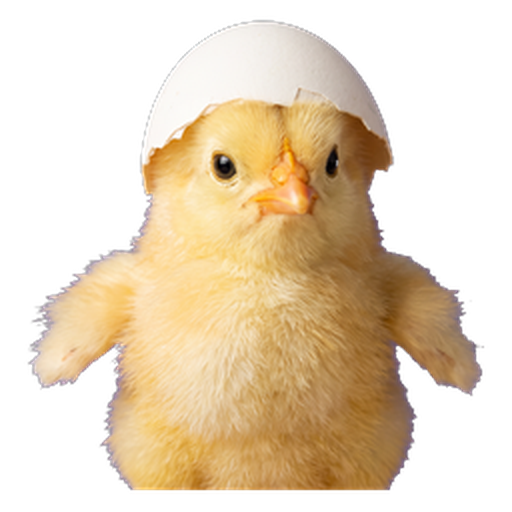
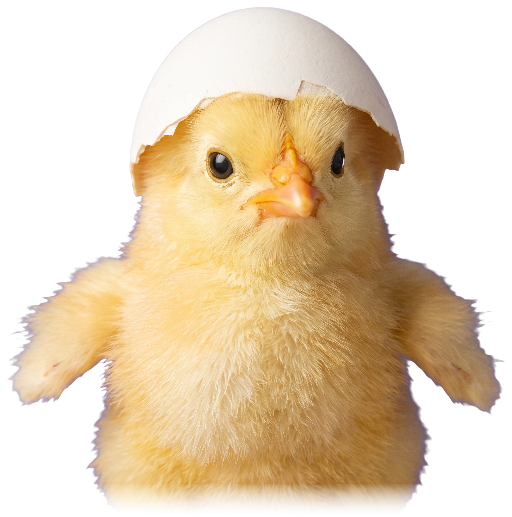
The hatchling gets a real matte, keyed fresh from its blue-screen raw
The shipped icon still wore a grey halo, a shading block, and a hard
bottom crop at page scale. Re-keyed from the 2048px blue-screen raw in
headless Chrome canvas: blue-dominance chroma key with smoothstep alpha,
despill, 1px erode plus soft blur (kills the fringe), and a fade over the
bottom 120px so the frame crop dissolves instead of cutting flat. Sized
down to 96px (74px mobile) so it stays smaller than the shades chick, per
Michael. Recipe: scratchpad rematte-chick.mjs pattern, reusable for the
other realistic icons if their mattes show at scale.

Claude-Session: https://claude.ai/code/session_01LWTbDvH7nhq9pbwN2wXLu5

Changed region(s): [[0.0, 0.0, 1.0, 1.0], [0.4688, 0.4375, 0.5, 0.4688], [0.3438, 0.4688, 0.375, 0.5]]

diff --git a/site/site.css b/site/site.css
@@ -119,10 +119,10 @@ button{font-family:inherit;cursor:pointer}
    seven minutes", the reward for scrolling, one beat before the shades-chick
    punchline. */
 .collapse-row{display:flex;align-items:center;gap:34px;justify-content:space-between}
-.collapse-row .hatchling{width:118px;flex:none;filter:drop-shadow(0 14px 20px rgba(40,32,4,.22))}
+.collapse-row .hatchling{width:96px;flex:none}
 @media (max-width:700px){
   .collapse-row{flex-direction:column;gap:18px}
-  .collapse-row .hatchling{width:92px}
+  .collapse-row .hatchling{width:74px}
 }
 
 /* ── WALK INTRO ───────────────────────────────────────────────────────── */
